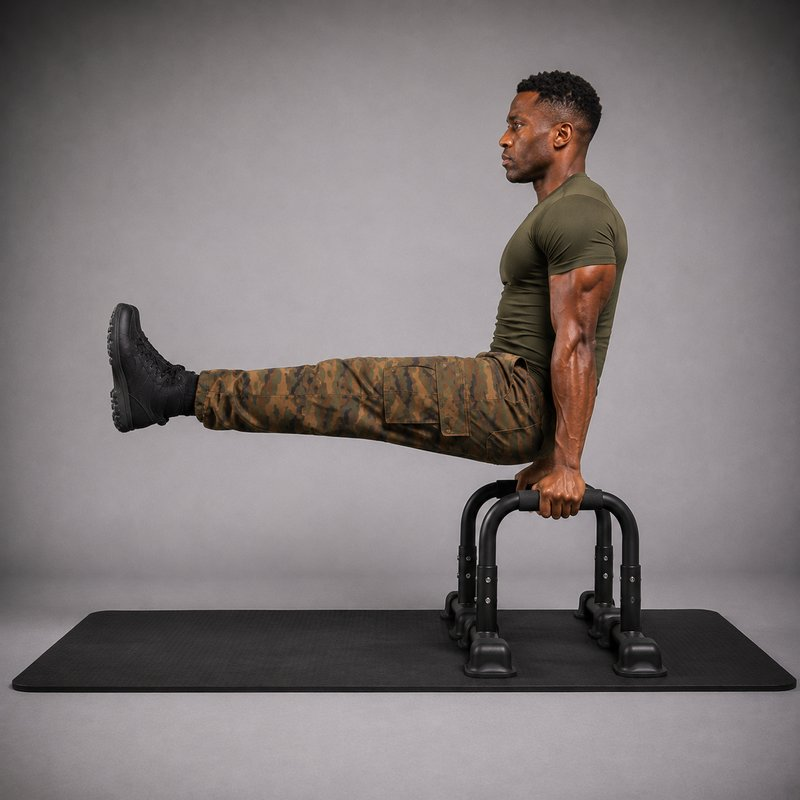
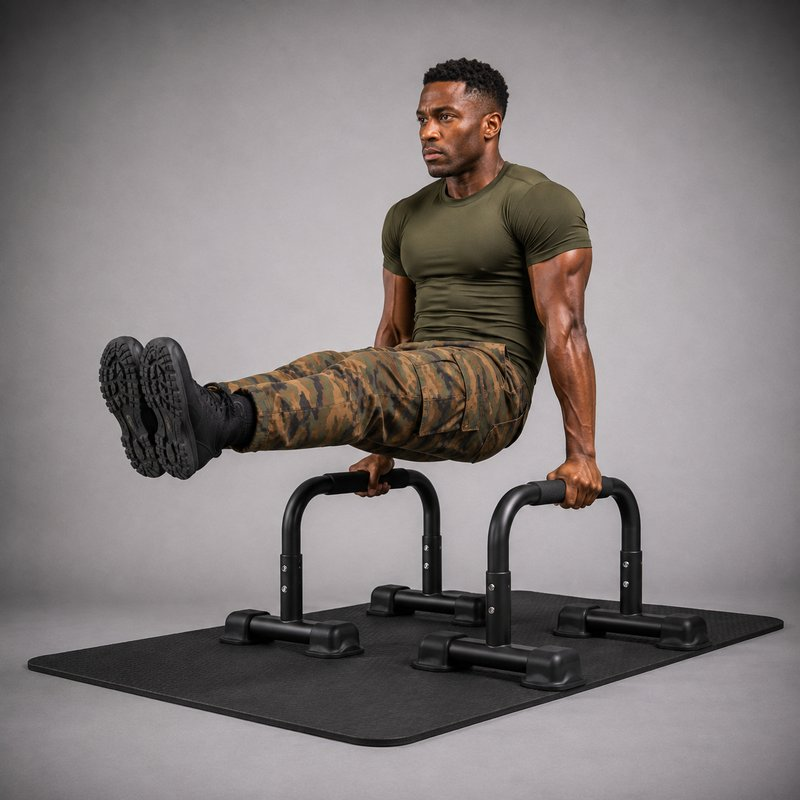
Use the three-quarter view for the leg raise, and record it as house style
The athlete compared the two framings of the same movement and preferred the
isometric three-quarter angle over the flat side profile. It shows depth, both
arms and the gap under the body at once; a side profile flattens the subject and
hides the far limb.

ex-plegraise.jpg swapped to the three-quarter frame, and the preference recorded
in CLAUDE.md so future generation prompts ask for it by default rather than it
being rediscovered one photo at a time.

Claude-Session: https://claude.ai/code/session_0191wikFtZSS5Y82c4LdMsVD

diff --git a/CLAUDE.md b/CLAUDE.md
@@ -3875,6 +3875,16 @@ entry was undoable, which is what made the removal obvious.
 Left in place: `tucklsit` (no equipment, the ladder rung `hollowL` was missing),
 `plegraise` and `ppushup`. Three movements, three distinguishable photos.
 
+**House style for exercise photography: a three-quarter angle, not a flat side
+profile.** Stated by the athlete after seeing both of the same movement side by
+side — the isometric view reads better. It shows depth, both arms and the gap
+under the body at once, where a pure side profile flattens the subject and
+hides the far limb. Every generation prompt should ask for "three-quarter side
+angle"; reserve a straight side profile for the rare case where a single joint
+angle IS the point and the extra dimension would obscure it. `ex-plegraise.jpg`
+was installed as a side profile and swapped to the three-quarter frame the same
+morning for exactly this reason.
+
 ## Rendering
 
 **`renderToday()` has a `sess.pos.dayInWeek === 0` branch for the weekly
